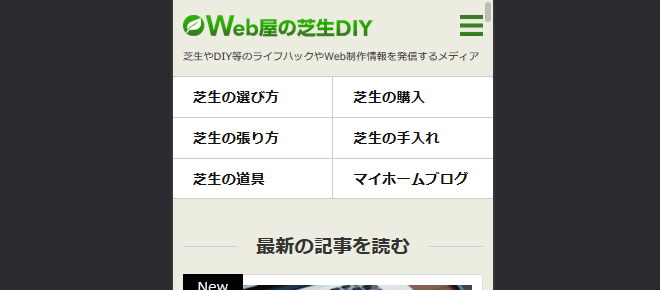
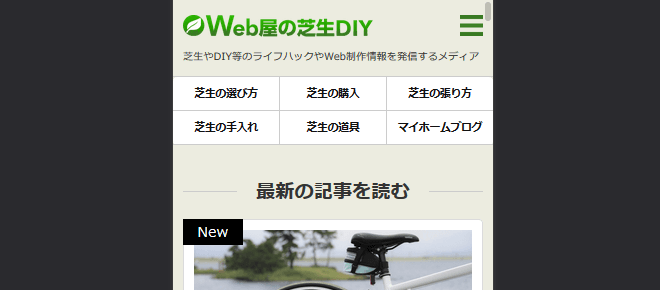
【更新】180126_01を執筆

Changed region(s): [[0.2424, 0.2793, 0.7576, 0.7138], [0.2727, 0.7448, 0.7273, 1.0]]

diff --git a/htdocs/writing.html b/htdocs/writing.html
@@ -3,15 +3,161 @@
 
 <!--======================================ここから記事用ソース======================================-->
 
-<p></p>
+<p>サイト開設当初より、ヘッダーにハンバーガメニューは設置せず「あえて」全メニューを最初から表示するデザインにしていたのですが、Googleアナリティクスのデータを見ると「検索結果」「サイトについて」「お問い合わせ」「サイトマップ」はほとんどアクセスがありません。</p>
 [adsense_top]
+<p>ユーザーが必要としていない要素なのであればフッターに移動させようかなとも考えましたが、それだと芸がないので、これらの要素を格納するハンバーガーメニューを実装することにしました。本記事では、Web屋の芝生DIYにおけるハンバーガーメニューの実装方法についてご紹介させていただきたいと思います。</p>
+<h2 class="hdg-l2-01">これまでのヘッダー</h2>
+<p>リンク系のコンテンツは最初から全て表示し、検索窓だけヘッダー右上の<strong>「ひらく」</strong>ボタンの中に格納していました。</p>
+<p><img src="/images/blog/2018/01/26_01_01.png" alt="" width="660" height="290"></p>
+<h3 class="hdg-l3-01">このレイアウトのメリットとデメリット</h3>
+<p>メリットは何といっても最初からリンクが表示されているので、「ハンバーガーメニューをたたく」⇒「目当てのリンクを見つける」⇒「リンクをクリックする」の3ステップにおける最初の「ハンバーガーメニューをたたく」を省略することができます。</p>
+<p>デメリットは、ヘッダーの高さを取るので現在のページが何のページなのか、少し視線を下に落とさないとわからない、またはスクリーンサイズによってはスクロールしないと見えない、というところですかね。</p>
+<p>今回、「サイトについて」「お問い合わせ」「サイトマップ」を最初から表示しておくメリットとコンテンツの認識のしやすさを天秤にかけた結果、後者を優先することにしたというわけです。</p>
+<h2 class="hdg-l2-01">改修後のヘッダー</h2>
+<p>ハンバーガーメニューをヘッダー右上に設置しました。あわせてサイトロゴも左寄せにしつつ、タグラインのフォントサイズはスマートフォンでも1行で表示されるよう調整。さらに、グローバルメニューはこれまでの3段から2段に変更しました。だいぶすっきりしたヘッダーになりましたね。</p>
+<p><img src="/images/blog/2018/01/26_01_02.png" alt="" width="660" height="290"></p>
+<p>ハンバーガーメニューをタップすると、検索窓と3つのリンクテキストがモーダルで表示されます。</p>
+<p><img src="/images/blog/2018/01/26_01_03.png" alt="" width="660" height="320"></p>
+<h2 class="hdg-l2-01">実装方法</h2>
+<p>cssとjsで実装しましたが、以下のポイントを意識して実装を行いました。</p>
+<ul class="list-bullet-01">
+<li>HTMLはワンソース</li>
+<li>アニメーションはcss3</li>
+<li>jsの記述は最小限</li>
+</ul>
+<h3 class="hdg-l3-01">html</h3>
+<pre><code>&lt;p id=&quot;sp-utility-btn&quot;&gt;メニューを開く&lt;/p&gt;
+&lt;div id=&quot;sp-drawer-utility&quot;&gt;
+&lt;div id=&quot;sp-drawer-utility-inner&quot;&gt;
+&lt;form method=&quot;get&quot; action=&quot;https://web-diy.jp/&quot; &gt;
+&lt;input id=&quot;text&quot; type=&quot;text&quot; value=&quot;&quot; name=&quot;s&quot; placeholder=&quot;キーワード&quot;&gt;
+&lt;input id=&quot;btn&quot; type=&quot;image&quot; src=&quot;/shared/images/btn_search.png&quot; alt=&quot;検索する&quot;&gt;
+&lt;/form&gt;
+&lt;ul class=&quot;utility&quot;&gt;
+&lt;li&gt;&lt;a href=&quot;/about/&quot;&gt;サイトについて&lt;/a&gt;&lt;/li&gt;
+&lt;li&gt;&lt;a href=&quot;/contact/&quot;&gt;お問い合わせ&lt;/a&gt;&lt;/li&gt;
+&lt;li&gt;&lt;a href=&quot;/sitemap/&quot;&gt;サイトマップ&lt;/a&gt;&lt;/li&gt;
+&lt;/ul&gt;
+&lt;/div&gt;
+&lt;/div&gt;</code></pre>
+<h3 class="hdg-l3-01">css</h3>
+<pre><code>/*----------------------------------------------
+ PCサイズではdisplay:block
+----------------------------------------------*/
+div#sp-drawer-utility{
+	display:block;
+}
+
+/*----------------------------------------------
+ モーダルのスタイル定義
+----------------------------------------------*/
+@media screen and (max-width:768px){
+
+    div#overlay{
+        opacity:0;
+        display:none;
+        background-color:#000;
+        height:100%;
+        position:absolute;
+        top:0;
+        left:0;
+        width:100%;
+        z-index:99998;
+    }
+    
+    div#overlay.fadein{
+        opacity: 0.85;
+        display: block;
+        animation-duration:0.3s;
+        animation-name:fade-in-overlay;
+    }
+    
+    p#sp-utility-btn{
+        cursor:pointer;
+        display:block;
+        width:23px;//サイズは任意
+        height:21px;//サイズは任意
+        position:absolute;
+        top:15px;//位置は任意
+        right:10px;//位置は任意
+        z-index: 99999;
+        background:url("ハンバーガーメニューの画像パス") no-repeat left top;
+        background-size:23px 21px;//サイズは任意
+        font-size: 0;
+        line-height: 0;
+    }
+    p#sp-utility-btn.open{
+        background:url("閉じるボタンの画像パス") no-repeat left top;
+        background-size:23px 21px;//サイズは任意
+    }
+    
+    div#sp-drawer-utility{
+        display:none;
+    }
+    
+    div#sp-drawer-utility.fadein{
+        display:block;
+        position: absolute;
+        top:46px;//位置は任意
+        z-index: 99999;
+        width: 100%;
+        animation-duration:0.5s;
+        animation-name:fade-in;
+    
+        div#sp-drawer-utility-inner{
+            margin:0 10px;
+            background:#ecece0;
+            padding: 20px 20px 10px 20px;
+            border-radius:4px;
+            form{
+                //任意のスタイルを定義
+            }
+            ul.utility{
+                //任意のスタイルを定義
+            }
+        }
+    }
+
+}
+
+/*----------------------------------------------
+ CSS Animation
+----------------------------------------------*/
+@keyframes fade-in {
+	0% {display:none;opacity:0;}
+	1% {display:block;opacity:0;}
+	100% {display:block;opacity:1;}
+}
+
+@keyframes fade-in-overlay {
+	0% {opacity:0;}
+	1% {opacity:0;}
+	100% {opacity:0.85;}
+}</code></pre>
+<h3 class="hdg-l3-01">js</h3>
+
+<pre><code>$(function(){
+    'use scrict';
+    
+    $('p#sp-utility-btn').one('click',function(){
+        $("body").append('&lt;div id=&quot;overlay&quot;&gt;&lt;/div&gt;');
+    });
+    $('p#sp-utility-btn').click(function(){
+        $(this).toggleClass('open');
+        $('#sp-drawer-utility').toggleClass('fadein');
+        $('#overlay').toggleClass('fadein');
+    });
+});</code></pre>
+<h2 class="hdg-l2-01">解説</h2>
+<p>まず、ハンバーガーメニューと閉じるボタンは画像で用意します。最初はcssで描画しようかなと思いましたが、アニメーションを実装しようとするとマークアップを若干犠牲にすることになるので、今回はマークアップの清潔さを優先するために画像で実装しました。<strong>「p#sp-utility-btn」</strong>に背景置換でハンバーガーメニューを設置しています。</p>
+<p>ハンバーガーメニューをタップして表示されるコンテンツは1ソースで実装しています。スクリーンサイズの横幅が広いときは以前のデザインのままヘッダーに表示し、狭い時は隠しています。メニューのタップ⇒スクリーンサイズ変更時に要素が非表示とならないよう、<strong>「display:block;」</strong>を記述しておくのもポイントです。</p>
+<p>ハンバーガーメニューをタップすると、「p#sp-utility-btn」に<strong>「.open」</strong>が付与されます。.openには閉じるボタンの背景置換をスタイルで定義しておきます。.openを<strong>「.toggleClass('open');」</strong>で付け外しすることで、タップするたびに画像を入れ替えています。</p>
+<p>モーダルの後ろにはオーバーレイ<strong>「#overlay」</strong>をDOM生成します。.oneを使って一度だけDOM生成することで、パフォーマンスを最適化しています。<strong>「z-index:99998;</strong>」とし、閉じるボタンとモーダルの中身は<strong>「z-index:99999;」</strong>としておくのもポイントです。これでモーダルがオーバーレイの手前に表示されるようになります。</p>
+<p>ハンバーガーメニュータップ時のフェードインアニメーションはcss3で行っています。jsでは<strong>「.fadein」</strong>を<strong>「.toggleClass('fadein')」</strong>で付け外しする処理のみで、アニメーションはオーバーレイとモーダルそれぞれ、キーフレーム<strong>「fade-in」「fade-in-overlay」</strong>によって行われています。</p>
 <h2 class="hdg-l2-01">まとめ</h2>
-<p></p>
-<p><img src="/images/blog/2018/01/26_01_01.jpg" alt="" width="660" height="500"></p>
-<p><img src="/images/blog/2018/01/26_01_02.jpg" alt="" width="660" height="500"></p>
-
-
-
+<p>元々あまり使われていなかった要素をハンバーガーメニューで隠しただけっちゃだけなので、これで爆発的にアクセスが増えるとかそういうことはないです。ほとんどこのサイトはオーガニック検索から個別記事への流入がほとんどなので。</p>
+<p>ただ、1つ1つの記事を読むにあたってファーストビューが改善されたことは間違いないので、読みやすさ並びにユーザーの満足度向上につながればといいなと思います。</p>
+<p>簡単にハンバーガーメニューを実装したい場合、どうぞ本記事がご参考になれば幸いです。</p>
 
 
 
